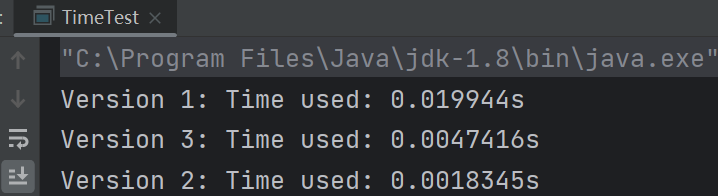
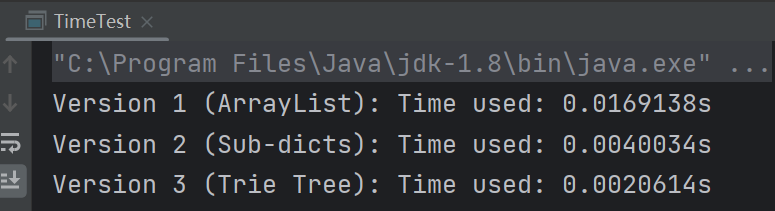
modified some mistakes

Changed region(s): [[0.0, 0.0306, 1.0, 1.0]]

diff --git a/lab1/TimeTest.java b/lab1/TimeTest.java
@@ -148,7 +148,7 @@ public class TimeTest {
         }
         // 结束计时
         long end = System.nanoTime();
-        System.out.println("Version 1: Time used: " + (end - start) / 1000000000.0 + "s");
+        System.out.println("Version 1 (ArrayList): Time used: " + (end - start) / 1000000000.0 + "s");
 
         // 将结果写入文件-用于验证
         try (BufferedWriter bw = new BufferedWriter(new FileWriter("timetest_v1.txt", false))){
@@ -197,7 +197,7 @@ public class TimeTest {
         }
         // 结束计时
         long end = System.nanoTime();
-        System.out.println("Version 3: Time used: " + (end - start) / 1000000000.0 + "s");
+        System.out.println("Version 2 (Sub-dicts): Time used: " + (end - start) / 1000000000.0 + "s");
 
         // 将结果写入文件-用于验证
         try (BufferedWriter bw = new BufferedWriter(new FileWriter("timetest_v2.txt", false))){
@@ -241,7 +241,7 @@ public class TimeTest {
         }
         // 结束计时
         long end = System.nanoTime();
-        System.out.println("Version 2: Time used: " + (end - start) / 1000000000.0 + "s");
+        System.out.println("Version 3 (Trie Tree): Time used: " + (end - start) / 1000000000.0 + "s");
 
         // 将结果写入文件-用于验证
         try (BufferedWriter bw = new BufferedWriter(new FileWriter("timetest_v3.txt", false))){

diff --git a/lab1/10235501419 Lab1 实验报告.md b/lab1/10235501419 Lab1 实验报告.md
@@ -62,7 +62,7 @@ public String searchLongestPrefix(String str) {
 
 	在本次实验的数据上对这三种方法进行计时测试，发现在本次的实验中，分词速度：前缀树 优于 划分子词典 优于 朴素版本。
 
-<img src="assets/timetest.png" alt="时间测试" style="zoom: 25%;" />
+<img src="D:\学习\2024-2025 第2学期\自然语言处理 张蓉\Lab\lab1\assets\timetest.png" alt="时间测试" style="zoom: 33%;" />
 
 ### 实验结果
 
